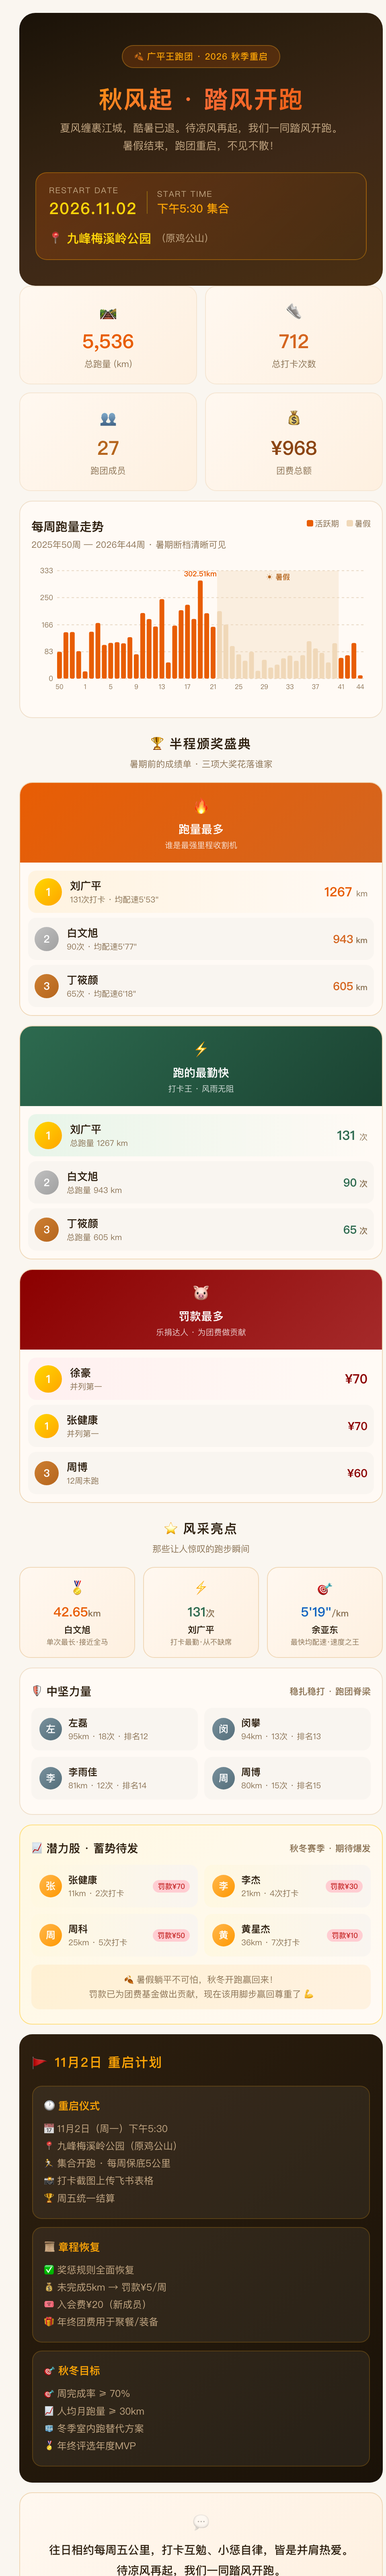
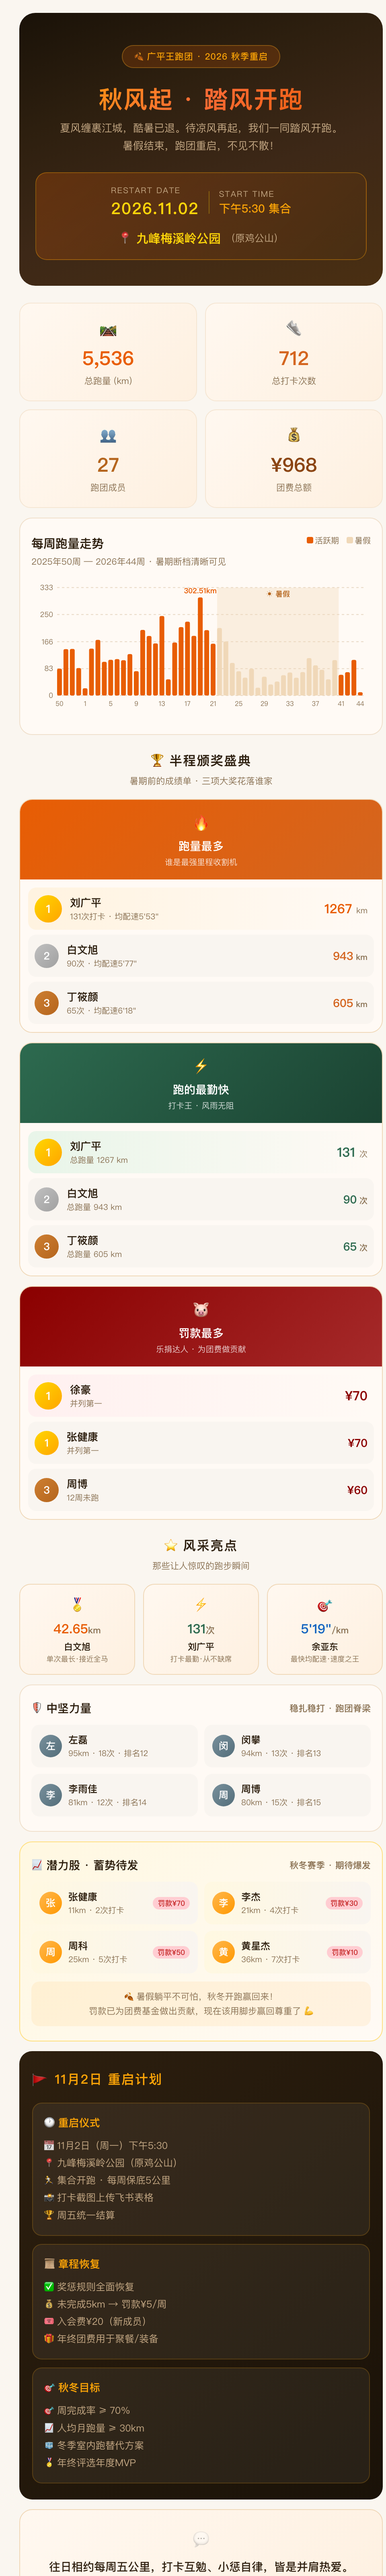
Hero信息文字居中；修复stats负margin覆盖top间距导致贴着Hero

diff --git a/index.html b/index.html
@@ -15,20 +15,20 @@ body{font-family:-apple-system,'PingFang SC','Noto Sans SC','Segoe UI',sans-seri
 .hero-badge{display:inline-block;padding:5px 14px;border-radius:999px;background:rgba(232,93,4,0.2);border:1px solid rgba(255,182,39,0.3);margin-bottom:20px;font-size:11px;letter-spacing:0.5px;color:#FAA307;font-weight:500;}
 .hero h1{font-size:30px;font-weight:700;margin:0 0 6px;letter-spacing:1px;line-height:1.25;background:linear-gradient(135deg,#FAA307,#FF6B35,#E85D04);-webkit-background-clip:text;-webkit-text-fill-color:transparent;background-clip:text;color:#FAA307;}
 .hero p{font-size:13px;color:#c4a884;margin:0 0 22px;line-height:1.7;}
-.hero-info{display:block;padding:14px 16px;border-radius:14px;background:linear-gradient(135deg,rgba(232,93,4,0.25),rgba(74,47,18,0.4));border:1px solid rgba(250,163,7,0.35);text-align:left;overflow:hidden;}
-.hero-info-row{display:flex;display:-webkit-flex;align-items:center;-webkit-align-items:center;gap:12px;flex-wrap:wrap;-webkit-flex-wrap:wrap;}
+.hero-info{display:block;padding:14px 16px;border-radius:14px;background:linear-gradient(135deg,rgba(232,93,4,0.25),rgba(74,47,18,0.4));border:1px solid rgba(250,163,7,0.35);text-align:center;overflow:hidden;}
+.hero-info-row{display:flex;display:-webkit-flex;align-items:center;-webkit-align-items:center;justify-content:center;-webkit-justify-content:center;gap:12px;flex-wrap:wrap;-webkit-flex-wrap:wrap;}
 .hero-info-item{text-align:left;}
 .hero-date-label{font-size:10px;color:#c4a884;letter-spacing:1px;white-space:nowrap;}
 .hero-date-value{font-size:20px;font-weight:700;color:#FFD60A;letter-spacing:1px;white-space:nowrap;}
 .hero-divider{width:1px;height:28px;background:rgba(255,214,10,0.3);}
 .hero-date-value2{font-size:14px;font-weight:500;color:#FAA307;white-space:nowrap;}
-.hero-location-row{margin-top:10px;display:flex;display:-webkit-flex;align-items:center;-webkit-align-items:center;gap:6px;flex-wrap:wrap;-webkit-flex-wrap:wrap;}
+.hero-location-row{margin-top:10px;display:flex;display:-webkit-flex;align-items:center;-webkit-align-items:center;justify-content:center;-webkit-justify-content:center;gap:6px;flex-wrap:wrap;-webkit-flex-wrap:wrap;}
 .hero-location-icon{font-size:16px;flex-shrink:0;-webkit-flex-shrink:0;}
 .hero-location-name{font-size:15px;font-weight:600;color:#FFD60A;}
 .hero-location-sub{font-size:12px;color:#c4a884;}
 
 /* Stats */
-.stats{margin-top:12px;display:flex;display:-webkit-flex;flex-wrap:wrap;-webkit-flex-wrap:wrap;margin:-5px;}
+.stats{margin-top:16px;display:flex;display:-webkit-flex;flex-wrap:wrap;-webkit-flex-wrap:wrap;margin:16px -5px -5px -5px;}
 .stat-card{width:calc(50% - 10px);margin:5px;padding:16px 10px;border-radius:14px;text-align:center;background:linear-gradient(135deg,#fff8f0,#fef0e0);border:1px solid #f5e6d3;overflow:hidden;}
 .stat-icon{font-size:20px;margin-bottom:4px;}
 .stat-value{font-size:24px;font-weight:700;font-variant-numeric:tabular-nums;}

diff --git a/广平王跑团-秋季重启画报.html b/广平王跑团-秋季重启画报.html
@@ -15,20 +15,20 @@ body{font-family:-apple-system,'PingFang SC','Noto Sans SC','Segoe UI',sans-seri
 .hero-badge{display:inline-block;padding:5px 14px;border-radius:999px;background:rgba(232,93,4,0.2);border:1px solid rgba(255,182,39,0.3);margin-bottom:20px;font-size:11px;letter-spacing:0.5px;color:#FAA307;font-weight:500;}
 .hero h1{font-size:30px;font-weight:700;margin:0 0 6px;letter-spacing:1px;line-height:1.25;background:linear-gradient(135deg,#FAA307,#FF6B35,#E85D04);-webkit-background-clip:text;-webkit-text-fill-color:transparent;background-clip:text;color:#FAA307;}
 .hero p{font-size:13px;color:#c4a884;margin:0 0 22px;line-height:1.7;}
-.hero-info{display:block;padding:14px 16px;border-radius:14px;background:linear-gradient(135deg,rgba(232,93,4,0.25),rgba(74,47,18,0.4));border:1px solid rgba(250,163,7,0.35);text-align:left;overflow:hidden;}
-.hero-info-row{display:flex;display:-webkit-flex;align-items:center;-webkit-align-items:center;gap:12px;flex-wrap:wrap;-webkit-flex-wrap:wrap;}
+.hero-info{display:block;padding:14px 16px;border-radius:14px;background:linear-gradient(135deg,rgba(232,93,4,0.25),rgba(74,47,18,0.4));border:1px solid rgba(250,163,7,0.35);text-align:center;overflow:hidden;}
+.hero-info-row{display:flex;display:-webkit-flex;align-items:center;-webkit-align-items:center;justify-content:center;-webkit-justify-content:center;gap:12px;flex-wrap:wrap;-webkit-flex-wrap:wrap;}
 .hero-info-item{text-align:left;}
 .hero-date-label{font-size:10px;color:#c4a884;letter-spacing:1px;white-space:nowrap;}
 .hero-date-value{font-size:20px;font-weight:700;color:#FFD60A;letter-spacing:1px;white-space:nowrap;}
 .hero-divider{width:1px;height:28px;background:rgba(255,214,10,0.3);}
 .hero-date-value2{font-size:14px;font-weight:500;color:#FAA307;white-space:nowrap;}
-.hero-location-row{margin-top:10px;display:flex;display:-webkit-flex;align-items:center;-webkit-align-items:center;gap:6px;flex-wrap:wrap;-webkit-flex-wrap:wrap;}
+.hero-location-row{margin-top:10px;display:flex;display:-webkit-flex;align-items:center;-webkit-align-items:center;justify-content:center;-webkit-justify-content:center;gap:6px;flex-wrap:wrap;-webkit-flex-wrap:wrap;}
 .hero-location-icon{font-size:16px;flex-shrink:0;-webkit-flex-shrink:0;}
 .hero-location-name{font-size:15px;font-weight:600;color:#FFD60A;}
 .hero-location-sub{font-size:12px;color:#c4a884;}
 
 /* Stats */
-.stats{margin-top:12px;display:flex;display:-webkit-flex;flex-wrap:wrap;-webkit-flex-wrap:wrap;margin:-5px;}
+.stats{margin-top:16px;display:flex;display:-webkit-flex;flex-wrap:wrap;-webkit-flex-wrap:wrap;margin:16px -5px -5px -5px;}
 .stat-card{width:calc(50% - 10px);margin:5px;padding:16px 10px;border-radius:14px;text-align:center;background:linear-gradient(135deg,#fff8f0,#fef0e0);border:1px solid #f5e6d3;overflow:hidden;}
 .stat-icon{font-size:20px;margin-bottom:4px;}
 .stat-value{font-size:24px;font-weight:700;font-variant-numeric:tabular-nums;}
